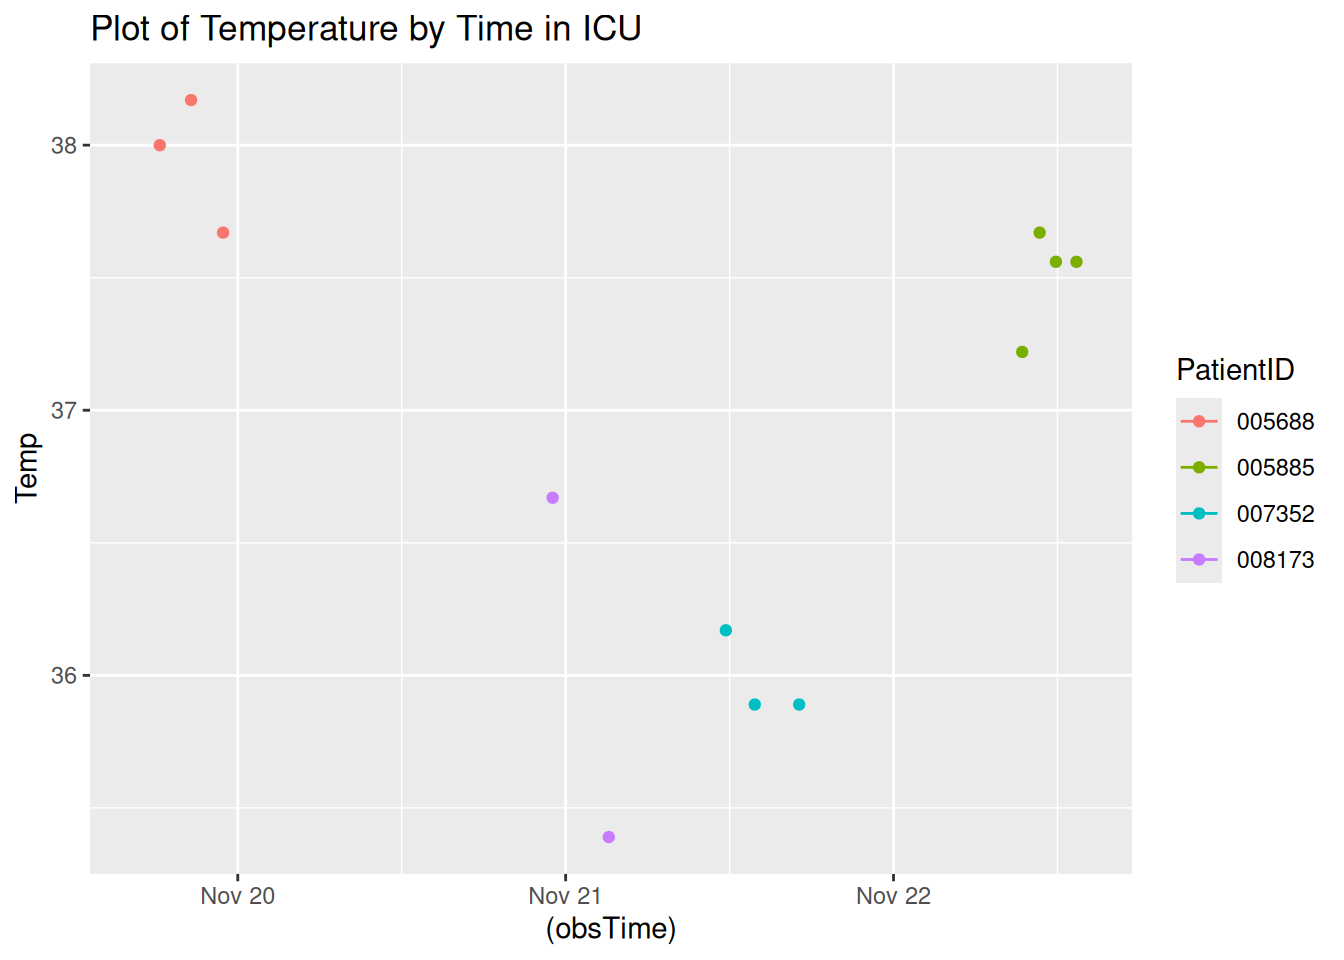
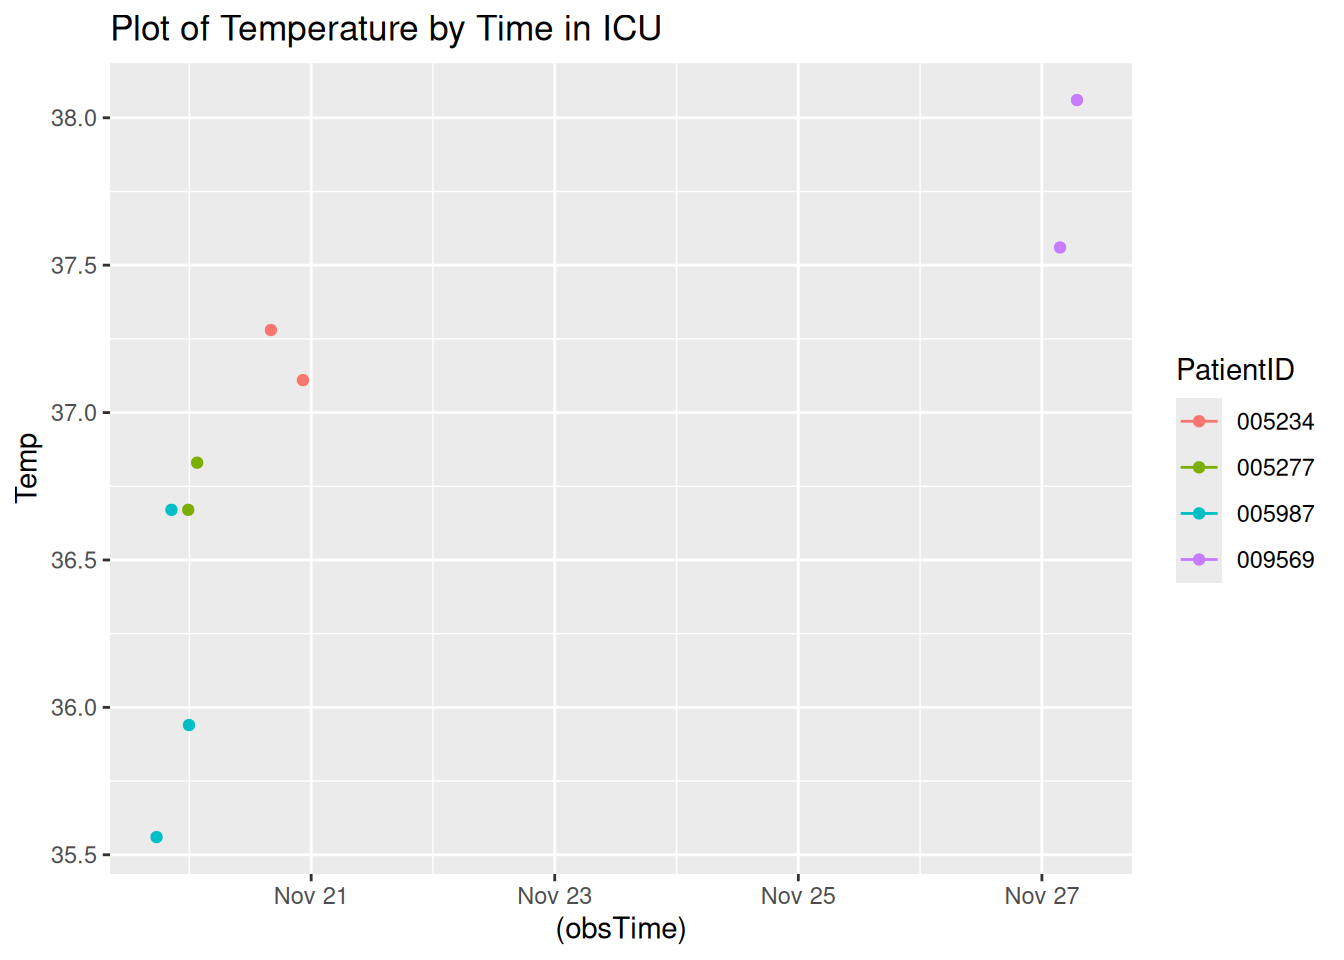
Updated report

diff --git a/A7.html b/A7.html
@@ -119,7 +119,7 @@ pre > code.sourceCode > span > a:first-child::before { text-decoration: underlin
 </div>
 <div class="code-copy-outer-scaffold"><div class="sourceCode cell-code" id="cb4"><pre class="sourceCode r code-with-copy"><code class="sourceCode r"><span id="cb4-1"><a href="#cb4-1" aria-hidden="true" tabindex="-1"></a><span class="fu">toc</span>()</span></code></pre></div><button title="Copy to Clipboard" class="code-copy-button"><i class="bi"></i></button></div>
 <div class="cell-output cell-output-stdout">
-<pre><code>15.419 sec elapsed</code></pre>
+<pre><code>22.795 sec elapsed</code></pre>
 </div>
 <div class="code-copy-outer-scaffold"><div class="sourceCode cell-code" id="cb6"><pre class="sourceCode r code-with-copy"><code class="sourceCode r"><span id="cb6-1"><a href="#cb6-1" aria-hidden="true" tabindex="-1"></a><span class="fu">tic</span>()</span>
 <span id="cb6-2"><a href="#cb6-2" aria-hidden="true" tabindex="-1"></a>test1<span class="ot">=</span><span class="fu">makeSepsisDataset</span>(<span class="at">n=</span><span class="dv">50</span>,<span class="at">read_fn =</span> <span class="st">"read_delim"</span>)</span>
@@ -129,7 +129,7 @@ pre > code.sourceCode > span > a:first-child::before { text-decoration: underlin
 </div>
 <div class="code-copy-outer-scaffold"><div class="sourceCode cell-code" id="cb8"><pre class="sourceCode r code-with-copy"><code class="sourceCode r"><span id="cb8-1"><a href="#cb8-1" aria-hidden="true" tabindex="-1"></a><span class="fu">toc</span>()</span></code></pre></div><button title="Copy to Clipboard" class="code-copy-button"><i class="bi"></i></button></div>
 <div class="cell-output cell-output-stdout">
-<pre><code>15.46 sec elapsed</code></pre>
+<pre><code>20.51 sec elapsed</code></pre>
 </div>
 <div class="code-copy-outer-scaffold"><div class="sourceCode cell-code" id="cb10"><pre class="sourceCode r code-with-copy"><code class="sourceCode r"><span id="cb10-1"><a href="#cb10-1" aria-hidden="true" tabindex="-1"></a><span class="co"># n=100</span></span>
 <span id="cb10-2"><a href="#cb10-2" aria-hidden="true" tabindex="-1"></a><span class="fu">tic</span>()</span>
@@ -140,7 +140,7 @@ pre > code.sourceCode > span > a:first-child::before { text-decoration: underlin
 </div>
 <div class="code-copy-outer-scaffold"><div class="sourceCode cell-code" id="cb12"><pre class="sourceCode r code-with-copy"><code class="sourceCode r"><span id="cb12-1"><a href="#cb12-1" aria-hidden="true" tabindex="-1"></a><span class="fu">toc</span>()</span></code></pre></div><button title="Copy to Clipboard" class="code-copy-button"><i class="bi"></i></button></div>
 <div class="cell-output cell-output-stdout">
-<pre><code>28.321 sec elapsed</code></pre>
+<pre><code>39.371 sec elapsed</code></pre>
 </div>
 <div class="code-copy-outer-scaffold"><div class="sourceCode cell-code" id="cb14"><pre class="sourceCode r code-with-copy"><code class="sourceCode r"><span id="cb14-1"><a href="#cb14-1" aria-hidden="true" tabindex="-1"></a><span class="fu">tic</span>()</span>
 <span id="cb14-2"><a href="#cb14-2" aria-hidden="true" tabindex="-1"></a>test1<span class="ot">=</span><span class="fu">makeSepsisDataset</span>(<span class="at">n=</span><span class="dv">100</span>,<span class="at">read_fn =</span> <span class="st">"read_delim"</span>)</span>
@@ -150,7 +150,7 @@ pre > code.sourceCode > span > a:first-child::before { text-decoration: underlin
 </div>
 <div class="code-copy-outer-scaffold"><div class="sourceCode cell-code" id="cb16"><pre class="sourceCode r code-with-copy"><code class="sourceCode r"><span id="cb16-1"><a href="#cb16-1" aria-hidden="true" tabindex="-1"></a><span class="fu">toc</span>()</span></code></pre></div><button title="Copy to Clipboard" class="code-copy-button"><i class="bi"></i></button></div>
 <div class="cell-output cell-output-stdout">
-<pre><code>30.699 sec elapsed</code></pre>
+<pre><code>41.22 sec elapsed</code></pre>
 </div>
 <div class="code-copy-outer-scaffold"><div class="sourceCode cell-code" id="cb18"><pre class="sourceCode r code-with-copy"><code class="sourceCode r"><span id="cb18-1"><a href="#cb18-1" aria-hidden="true" tabindex="-1"></a><span class="co"># n=500</span></span>
 <span id="cb18-2"><a href="#cb18-2" aria-hidden="true" tabindex="-1"></a><span class="fu">tic</span>()</span>
@@ -161,7 +161,7 @@ pre > code.sourceCode > span > a:first-child::before { text-decoration: underlin
 </div>
 <div class="code-copy-outer-scaffold"><div class="sourceCode cell-code" id="cb20"><pre class="sourceCode r code-with-copy"><code class="sourceCode r"><span id="cb20-1"><a href="#cb20-1" aria-hidden="true" tabindex="-1"></a><span class="fu">toc</span>()</span></code></pre></div><button title="Copy to Clipboard" class="code-copy-button"><i class="bi"></i></button></div>
 <div class="cell-output cell-output-stdout">
-<pre><code>145.336 sec elapsed</code></pre>
+<pre><code>202.037 sec elapsed</code></pre>
 </div>
 <div class="code-copy-outer-scaffold"><div class="sourceCode cell-code" id="cb22"><pre class="sourceCode r code-with-copy"><code class="sourceCode r"><span id="cb22-1"><a href="#cb22-1" aria-hidden="true" tabindex="-1"></a><span class="fu">tic</span>()</span>
 <span id="cb22-2"><a href="#cb22-2" aria-hidden="true" tabindex="-1"></a>test1<span class="ot">=</span><span class="fu">makeSepsisDataset</span>(<span class="at">n=</span><span class="dv">500</span>,<span class="at">read_fn =</span> <span class="st">"read_delim"</span>)</span>
@@ -171,7 +171,7 @@ pre > code.sourceCode > span > a:first-child::before { text-decoration: underlin
 </div>
 <div class="code-copy-outer-scaffold"><div class="sourceCode cell-code" id="cb24"><pre class="sourceCode r code-with-copy"><code class="sourceCode r"><span id="cb24-1"><a href="#cb24-1" aria-hidden="true" tabindex="-1"></a><span class="fu">toc</span>()</span></code></pre></div><button title="Copy to Clipboard" class="code-copy-button"><i class="bi"></i></button></div>
 <div class="cell-output cell-output-stdout">
-<pre><code>156.944 sec elapsed</code></pre>
+<pre><code>208.305 sec elapsed</code></pre>
 </div>
 </div>
 <p><strong>Task 3</strong></p>
@@ -197,7 +197,7 @@ pre > code.sourceCode > span > a:first-child::before { text-decoration: underlin
 <span id="cb28-4"><a href="#cb28-4" aria-hidden="true" tabindex="-1"></a></span>
 <span id="cb28-5"><a href="#cb28-5" aria-hidden="true" tabindex="-1"></a><span class="fu">Sys.time</span>()</span></code></pre></div><button title="Copy to Clipboard" class="code-copy-button"><i class="bi"></i></button></div>
 <div class="cell-output cell-output-stdout">
-<pre><code>[1] "2025-11-19 16:39:20 UTC"</code></pre>
+<pre><code>[1] "2025-11-19 17:31:49 UTC"</code></pre>
 </div>
 <div class="code-copy-outer-scaffold"><div class="sourceCode cell-code" id="cb30"><pre class="sourceCode r code-with-copy"><code class="sourceCode r"><span id="cb30-1"><a href="#cb30-1" aria-hidden="true" tabindex="-1"></a>dfnew <span class="ot">&lt;-</span> df <span class="sc">%&gt;%</span></span>
 <span id="cb30-2"><a href="#cb30-2" aria-hidden="true" tabindex="-1"></a>  <span class="fu">subset</span>(SepsisLabel<span class="sc">==</span><span class="dv">1</span>)</span>
@@ -226,40 +226,40 @@ pre > code.sourceCode > span > a:first-child::before { text-decoration: underlin
 </thead>
 <tbody>
 <tr class="odd">
-<td style="text-align: left;">005688</td>
-<td style="text-align: right;">7</td>
-<td style="text-align: right;">90</td>
-<td style="text-align: right;">37.67</td>
-<td style="text-align: right;">13</td>
+<td style="text-align: left;">005234</td>
+<td style="text-align: right;">34</td>
+<td style="text-align: right;">91</td>
+<td style="text-align: right;">NA</td>
+<td style="text-align: right;">18</td>
 <td style="text-align: right;">1</td>
-<td style="text-align: left;">2025-11-19 22:55:33</td>
+<td style="text-align: left;">2025-11-21 02:15:20</td>
 </tr>
 <tr class="even">
-<td style="text-align: left;">005885</td>
-<td style="text-align: right;">72</td>
-<td style="text-align: right;">88</td>
+<td style="text-align: left;">005277</td>
+<td style="text-align: right;">15</td>
+<td style="text-align: right;">67</td>
 <td style="text-align: right;">NA</td>
-<td style="text-align: right;">30</td>
+<td style="text-align: right;">23</td>
 <td style="text-align: right;">1</td>
-<td style="text-align: left;">2025-11-22 14:00:25</td>
+<td style="text-align: left;">2025-11-20 07:36:28</td>
 </tr>
 <tr class="odd">
-<td style="text-align: left;">007352</td>
-<td style="text-align: right;">49</td>
-<td style="text-align: right;">106</td>
-<td style="text-align: right;">35.89</td>
+<td style="text-align: left;">005987</td>
+<td style="text-align: right;">9</td>
+<td style="text-align: right;">72</td>
 <td style="text-align: right;">NA</td>
+<td style="text-align: right;">27</td>
 <td style="text-align: right;">1</td>
-<td style="text-align: left;">2025-11-21 17:05:35</td>
+<td style="text-align: left;">2025-11-20 02:28:08</td>
 </tr>
 <tr class="even">
-<td style="text-align: left;">008173</td>
-<td style="text-align: right;">39</td>
-<td style="text-align: right;">71</td>
+<td style="text-align: left;">009569</td>
+<td style="text-align: right;">187</td>
+<td style="text-align: right;">83</td>
 <td style="text-align: right;">NA</td>
-<td style="text-align: right;">20</td>
+<td style="text-align: right;">22</td>
 <td style="text-align: right;">1</td>
-<td style="text-align: left;">2025-11-21 06:09:29</td>
+<td style="text-align: left;">2025-11-27 08:38:54</td>
 </tr>
 </tbody>
 </table>
